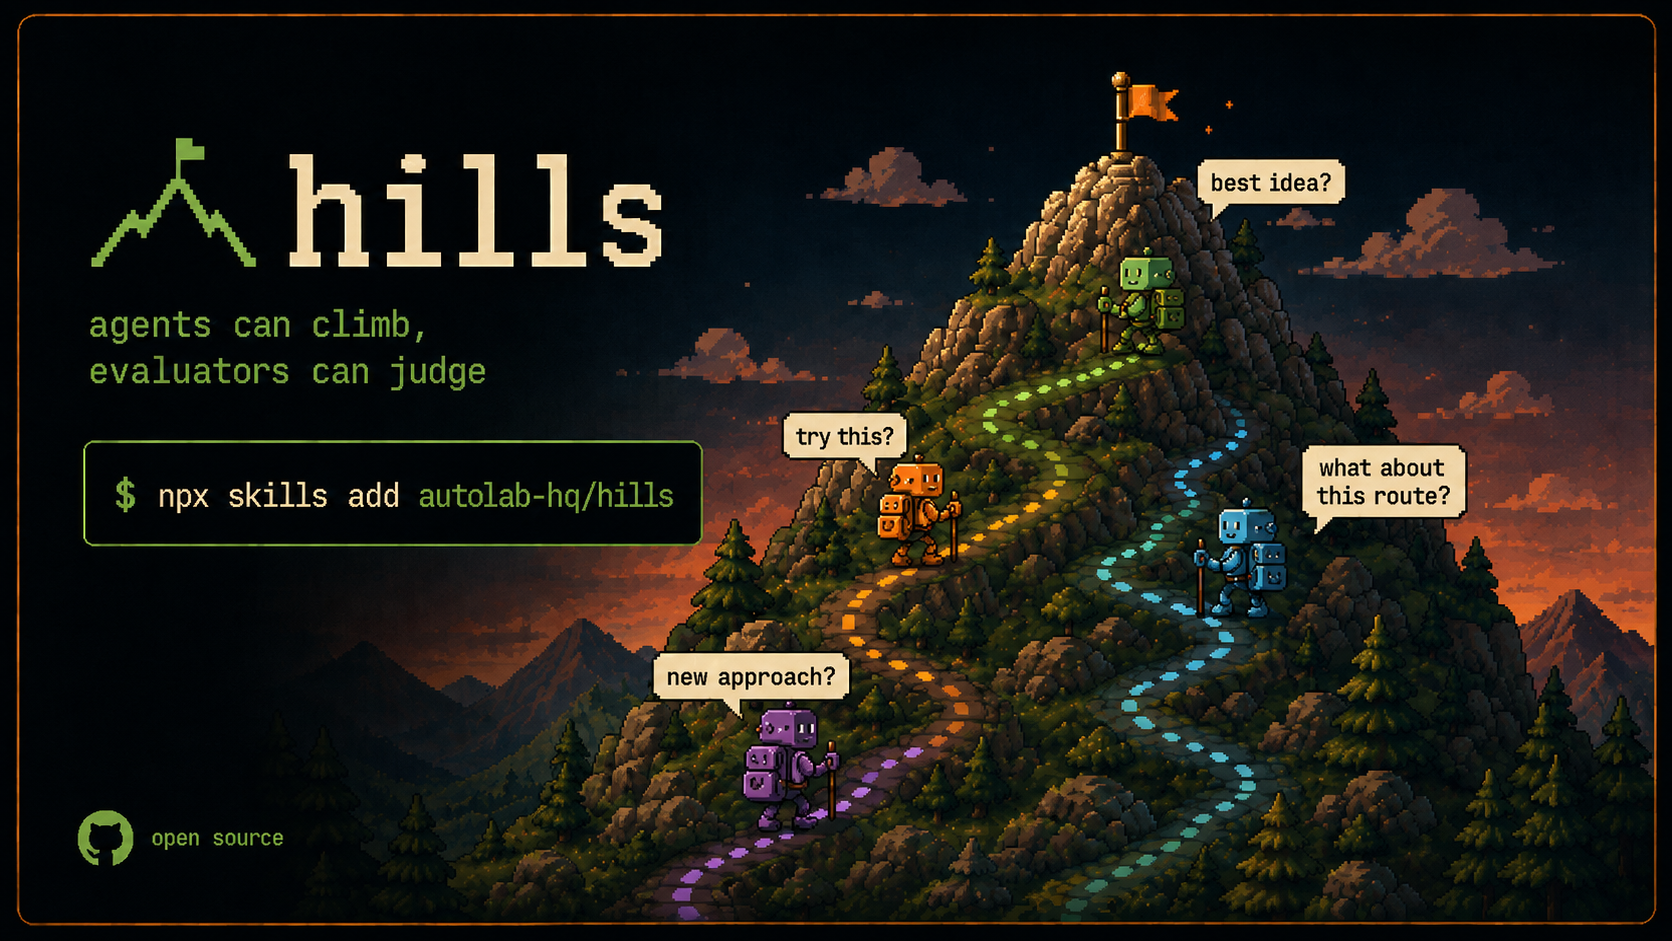
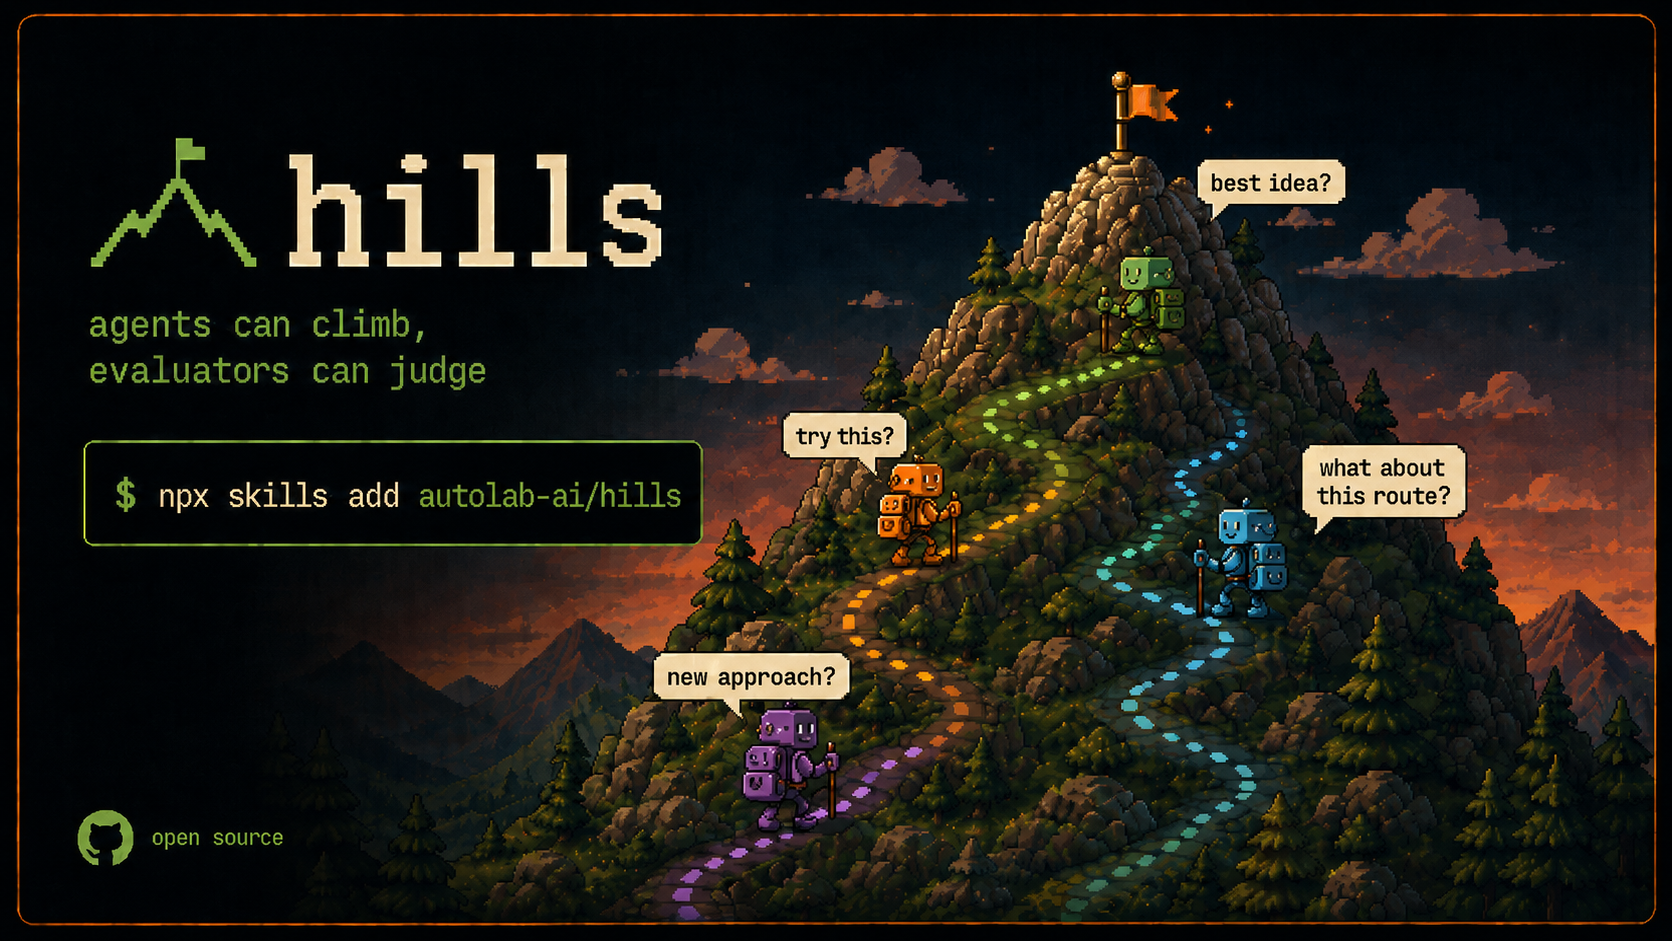
Move to the autolab-ai org

diff --git a/src/hills/setup_cmd.py b/src/hills/setup_cmd.py
@@ -1,6 +1,6 @@
 """`hills setup`: install the agent skill into whichever harnesses are present.
 
-The primary install path is the other direction (`npx skills add autolab-hq/hills`,
+The primary install path is the other direction (`npx skills add autolab-ai/hills`,
 which then bootstraps the CLI). This is the reverse door for people who
 installed the CLI first.
 """

diff --git a/docs/SPEC.md b/docs/SPEC.md
@@ -154,7 +154,7 @@ Machine state lives under `~/.autolab/hills/`:
 
 The repository is a monorepo: the Python library + CLI, this spec, example hills, and an **agent skill** — instructions that let coding agents (Claude Code and similar) create and climb hills conversationally. The skill is a first-class deliverable, version-locked to the CLI in the same repo.
 
-Primary installation path is the skill itself: `npx skills add autolab-hq/hills` installs the skill into the user's agent harness; the skill then bootstraps the CLI on first use (`hills --version`; if missing, `uv tool install hills`). The reverse door also exists: `uv tool install hills && hills setup`, where `setup` detects installed harnesses and installs the skill files.
+Primary installation path is the skill itself: `npx skills add autolab-ai/hills` installs the skill into the user's agent harness; the skill then bootstraps the CLI on first use (`hills --version`; if missing, `uv tool install hills`). The reverse door also exists: `uv tool install hills && hills setup`, where `setup` detects installed harnesses and installs the skill files.
 
 The skill has a router and two halves:
 
@@ -185,7 +185,7 @@ This tool defends against *self-deception*: an agent loop accidentally or opport
 
 Starting state: a user has `my-llm/` containing `train.py` (training and evaluation in one file) and `data/{train,val,test}.bin`. They want their coding agent to improve val loss without grading its own work.
 
-1. **Install (the only setup command):** `npx skills add autolab-hq/hills`.
+1. **Install (the only setup command):** `npx skills add autolab-ai/hills`.
 2. **Invoke.** The user tells their agent: "Make a hill out of this repo — val bpb after a 10-minute training run, test set hidden — then climb it." The agent checks `hills --version`, installs the CLI via uv if missing (first run lazily creates `~/.autolab/hills/` with a one-line notice), orients, and confirms the plan.
 3. **Interview.** Two or three questions: how much feedback should failed runs expose? confirm test stays hidden and the clock is evaluator-owned; confirm the eval logic will be frozen into the hill.
 4. **Scaffold and fill.** `hills new nanogpt-10min` creates `.hills/nanogpt-10min/` with `.vc` and the self-ignoring `.hills/.gitignore`. The agent writes `hill.yaml` (watchdog, `params: time_limit_s`, `blobs.track: ["data/**"]`), `README.md` (submission contract: a directory with `train.py`, invoked as `python train.py --data <hill>/data/train.bin --out <workdir>/checkpoints/`; checkpoint expected at `checkpoints/final.pt`), and `eval.py` (launches the submitted `train.py`, kills at `time_limit_s`, runs the frozen bpb evaluation from the user's original code against `private/data/val.bin` — or `test.bin` in final mode — and detects the GPU, reporting a normalized profile as primary config). It moves val/test into `private/data/`, leaves training data at `data/`, writes a minimal `examples/` submission and `tests/` asserting the evaluator accepts it and rejects a broken variant. It notes: "I read only the header bytes of val/test to confirm format."

diff --git a/README.md b/README.md
@@ -7,8 +7,8 @@
   <a href="#what-a-hill-is">What a hill is</a> ·
   <a href="#how-it-stays-honest">How it stays honest</a> ·
   <a href="#reference">Reference</a> ·
-  <a href="https://github.com/autolab-hq/hills/blob/main/docs/SPEC.md">Spec</a> ·
-  <a href="https://github.com/autolab-hq/hills/blob/main/skills/hills/SKILL.md">Agent skill</a>
+  <a href="https://github.com/autolab-ai/hills/blob/main/docs/SPEC.md">Spec</a> ·
+  <a href="https://github.com/autolab-ai/hills/blob/main/skills/hills/SKILL.md">Agent skill</a>
 </p>
 
 <p align="center">
@@ -21,7 +21,7 @@
 > its numbers cannot be trusted. **Hills separates the two roles.**
 
 <p align="center">
-  <img src="https://raw.githubusercontent.com/autolab-hq/hills/main/docs/banner.png"
+  <img src="https://raw.githubusercontent.com/autolab-ai/hills/main/docs/banner.png"
        alt="hills: agents can climb, evaluators can judge"
        width="900">
 </p>
@@ -51,7 +51,7 @@ If you want your coding agent to drive this instead, install the skill and it
 bootstraps the CLI itself:
 
 ```bash
-npx skills add autolab-hq/hills
+npx skills add autolab-ai/hills
 ```
 
 **2. Create a hill.** `circle-packing` ships with the tool: place 26 circles in
@@ -274,8 +274,8 @@ replay, not by trust in any single machine.
 
 ## Working with a coding agent
 
-The [agent skill](https://github.com/autolab-hq/hills/blob/main/skills/hills/SKILL.md) ships in this repo, version-locked to
-the CLI, and installs with `npx skills add autolab-hq/hills` or `hills setup`.
+The [agent skill](https://github.com/autolab-ai/hills/blob/main/skills/hills/SKILL.md) ships in this repo, version-locked to
+the CLI, and installs with `npx skills add autolab-ai/hills` or `hills setup`.
 You do not have to know what a hill is to use it: it triggers on any request to
 improve a number by iterating, and builds the hill as part of the job.
 
@@ -360,4 +360,4 @@ normalized GPU profile as primary config.
 
 ## License
 
-MIT. See [LICENSE](https://github.com/autolab-hq/hills/blob/main/LICENSE).
+MIT. See [LICENSE](https://github.com/autolab-ai/hills/blob/main/LICENSE).

diff --git a/skills/hills/SKILL.md b/skills/hills/SKILL.md
@@ -6,16 +6,13 @@ description: Optimize anything through autonomous experimentation, against an ev
 # Optimizing something, without grading your own homework
 
 You are an autonomous research agent. You work with the user to improve a
-number through systematic experimentation.
+number(s) through systematic experimentation.
 
-There is one problem with that sentence, and this skill exists to fix it. If you
-write the code, run it, read the metric out of your own log, and report the
-result, then every number you produce is self-reported. You will not fake one on
-purpose. You will absolutely fool yourself by accident: a training run that
-silently used the test split, an eval that got shorter as you optimized, a
-timing loop that stopped counting the part that got slow, a metric you started
-computing slightly differently three experiments ago. None of that looks like
-cheating from the inside.
+To autonomosly iterated towards a goal/metric improvement, it is very important to think hard about the evaluation metric and the problem contraints.
+
+The point of the hills library and this skill is to:
+(1) help co-design an eval enviroment (hill) with the user. Make sure the eval enviroment is set up to best represent user's use-case, they are happy with it, and the eval is as robust to cheating as possible.
+(2) after the user agrees on the eval enviroment (hill), run the 
 
 So the metric moves out of your reach before you start. You package the
 evaluation into a **hill**: a frozen directory holding the task description, the
